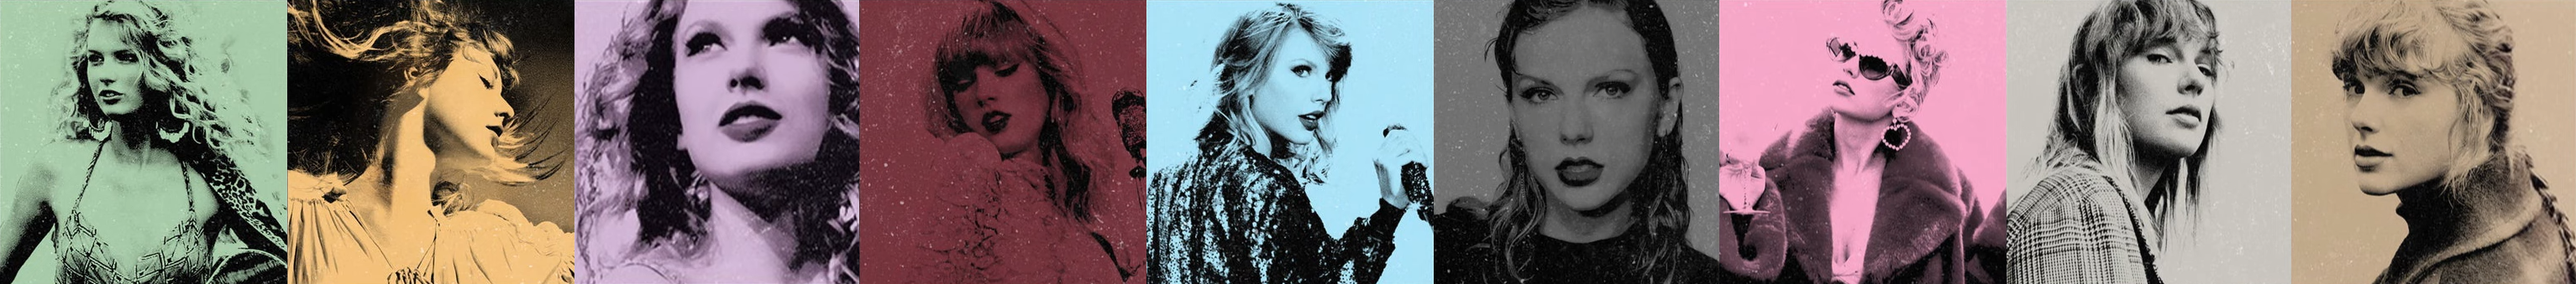
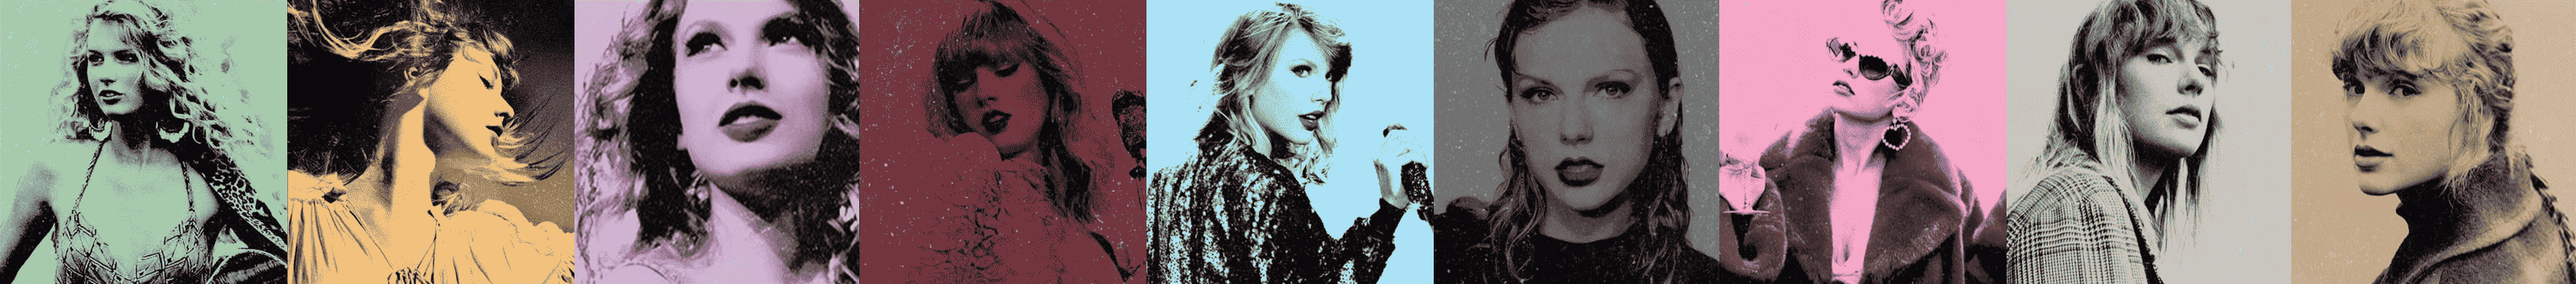
update gifs

diff --git a/public_html/index.html b/public_html/index.html
@@ -14,7 +14,7 @@
     <meta name="viewport" content="width=device-width, initial-scale=1">
     <meta name="description" content="Lyrics and tablature of songs for guitar and acoustic guitar by Taylor Swift.">
     <meta name="author" content="Raul dos Santos Moraes">
-    <link rel="icon" type="image/png" href="assets/images/favicon.png" />
+    <link rel="icon" type="image/png" href="assets/images/favicon-min.png" />
     <title>Taylor's Songbook</title>
 
     <!-- Bootstrap core CSS -->
@@ -109,7 +109,7 @@
                     <!-- <i class="fa-solid fa-circle-notch fa-spin fa-2xl"></i> -->
                     <img id="load-img" class="me-3" alt="Bootstrap">
                     <script>
-                        document.getElementById('load-img').src = `assets/images/taylor-swift/${ Math.floor(Math.random() * (17 - 1 + 1)) + 1 }.gif`
+                        document.getElementById('load-img').src = `assets/images/taylor-swift/${ Math.floor(Math.random() * (17 - 1 + 1)) + 1 }-min.gif`
                     </script>
                 </div>
             </div>

diff --git a/public_html/assets/custom/css/base.css b/public_html/assets/custom/css/base.css
@@ -774,8 +774,7 @@ i[note]::after {
 }
 
 #load-img {
-    width: 65%;
-    max-width: 700px;
+    width: auto;
 }
 
 [data-adtest="on"] {
